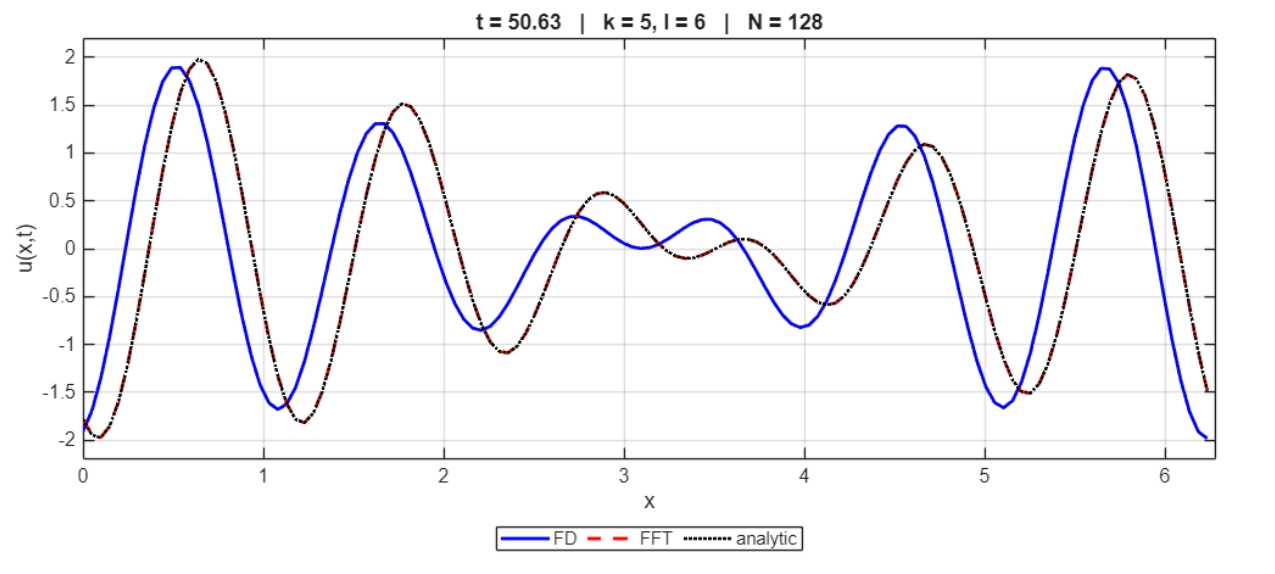
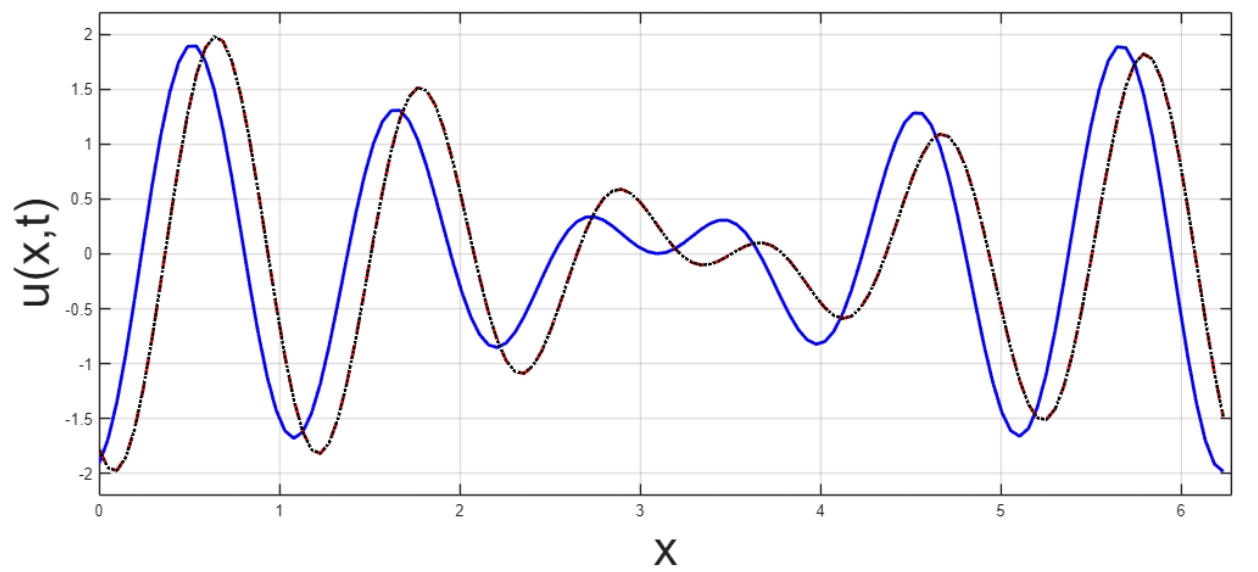
progres

Changed region(s): [[0.0, 0.0, 0.9921, 0.9808], [0.341, 0.6241, 0.372, 0.6538]]

diff --git a/main.tex b/main.tex
@@ -1251,10 +1251,9 @@ We can see graphs for both of them in the figures below. We looked closer at int
 \noindent
 The focus of this chapter will be the time evolution of the wave equation. So, our main focus will be on the equation
 \begin{equation}\label{eq_wave}
-    \frac{\partial^2 \; u (x, t)}{\partial \; t^2 } = c^2 \; \frac{\partial^2 \; u (x, t)}{\partial \; x^2} \, .
+    \frac{\partial^2 \; u (x, t)}{\partial \; t^2 } = c^2 \; \frac{\partial^2 \; u (x, t)}{\partial \; x^2} \, ,
 \end{equation}
-
-We will use finite differences (FD) and the fast Fourier transform (FFT) for the discretization of the second derivative present in the equation \ref{eq_wave} and then compare the two methods. We will look at two different cases of boundary conditions: periodic boundary conditions and dirichlet boundary conditions.
+where we will take $c = 1$. We will again use approximation techniques for the discretization of the second derivative present in the equation \ref{eq_wave}. Two different cases of boundary conditions will be of interest to us: periodic boundary conditions and dirichlet boundary conditions.
 
 \section{Periodic boundary conditions}
 
@@ -1264,7 +1263,9 @@ First, we will test how one wave in this form
 \begin{equation}
     u(x,t) = \sin{(k x - \omega t)} \, 
 \end{equation}
-behaves. The figures of time evolution can be seen in \ref{fig_one_wave}. These numerical experiments clearly show that the FD is systematically slower than the FFT. And there is no visible difference between the analytic solution and the FFT solution.
+behaves. And where $k = 48$, $N = 64$ and $L = \pi/8$.
+
+The figures of time evolution can be seen in \ref{fig_one_wave}. These numerical experiments clearly show that the FD is systematically slower than the FFT. And there is no visible difference between the analytic solution and the FFT solution.
 
 \begin{figure}[H]
 \centering
@@ -1368,8 +1369,9 @@ The equation holds only for $k \rightarrow 0$. Thus, waves approximated by FD pr
 \noindent
 Next, we will test how two waves that propagate in the same direction behave
 \begin{equation}
-    u(x,t) = \sin{(k x - \omega_k t)} + \sin{(l x - \omega_l t)} \, .
+    u(x,t) = \sin{(k x - \omega_k t)} + \sin{(l x - \omega_l t)} \, ,
 \end{equation}
+where $k = 5$, $l = 6$, $N = 128$ and $L = 2\pi$.
 
 \begin{figure}[H]
 \centering
@@ -1399,7 +1401,7 @@ Next, we will test how two waves that propagate in the same direction behave
     \subcaption{\footnotesize{$t \approx 50$ s}}
     \label{}
 \end{minipage}
-\caption{Comparison of wave propagation using FD, FFT and analytic solution.}
+\caption{Comparison of wave propagation using FD, FFT and analytic solution. Blue is FD, red is FFT and black is exact analytic solution. The two waves travel in the same direction.}
 \label{}
 \end{figure}
 
@@ -1409,8 +1411,9 @@ Next, we will test how two waves that propagate in the same direction behave
 \noindent
 And lastly, we will test how two waves that propagate in the opposite direction behave
 \begin{equation}
-    u(x,t) = \sin{(k x - \omega_k t)} + \sin{(l x + \omega_l t)} \, .
+    u(x,t) = \sin{(k x - \omega_k t)} + \sin{(l x + \omega_l t)} \, ,
 \end{equation}
+where $k = 5$, $l = 6$, $N = 128$ and $L = 2\pi$.
 
 \begin{figure}[H]
 \centering
@@ -1419,7 +1422,7 @@ And lastly, we will test how two waves that propagate in the opposite direction 
 \begin{minipage}[H]{0.95\textwidth}
     \centering
     \includegraphics[width=\textwidth]{pic_17.png}
-    \subcaption{\footnotesize{t = 0 s}}
+    \subcaption{\footnotesize{$t \approx 0$ s}}
     \label{}
 \end{minipage}
 \vspace{8pt}
@@ -1428,7 +1431,7 @@ And lastly, we will test how two waves that propagate in the opposite direction 
 \begin{minipage}[H]{0.95\textwidth}
     \centering
     \includegraphics[width=\textwidth]{pic_18.png}
-    \subcaption{\footnotesize{t = 26 s}}
+    \subcaption{\footnotesize{$t \approx 24$ s}}
     \label{}
 \end{minipage}
 \vspace{8pt}
@@ -1437,10 +1440,10 @@ And lastly, we will test how two waves that propagate in the opposite direction 
 \begin{minipage}[H]{0.95\textwidth}
     \centering
     \includegraphics[width=\textwidth]{pic_19.png}
-    \subcaption{\footnotesize{t = 50 s}}
+    \subcaption{\footnotesize{$t \approx 48$ s}}
     \label{}
 \end{minipage}
-\caption{Comparison of wave propagation using FD, FFT and analytic solution.}
+\caption{Comparison of wave propagation using FD, FFT and analytic solution. Blue is FD, red is FFT and black is exact analytic solution. The two waves propagate against each other.}
 \label{}
 \end{figure}
 
@@ -1481,15 +1484,8 @@ A basic description based on classical newton motion equations is in \ref{eq1}
 
 \subsection*{Rate-type equations}
 \noindent
-Let's now show how can we derive rate-type equations from classical newtonian description in \ref{eq1}. We will follow the derivation described in \cite{cit1}.
+Derivation of rate-type equations from classical newtonian description in \ref{eq1} was shown in \cite{cit1}.
 
-We define
-
-\begin{equation}
-    \sigma^{(j)} = k_1 \; \left(u_1^{(j+1)} - 2u_1^{(j)} + u_1^{(j-1)} \right) - k_2 \; \left(u_1^{(j)} - u_2^{(j)} \right)
-\end{equation}
-
-So the 
 
 
 \begin{equation}
